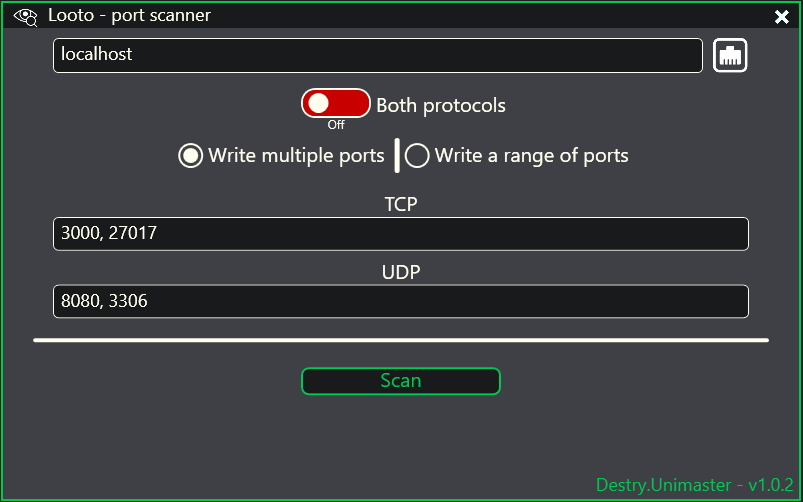
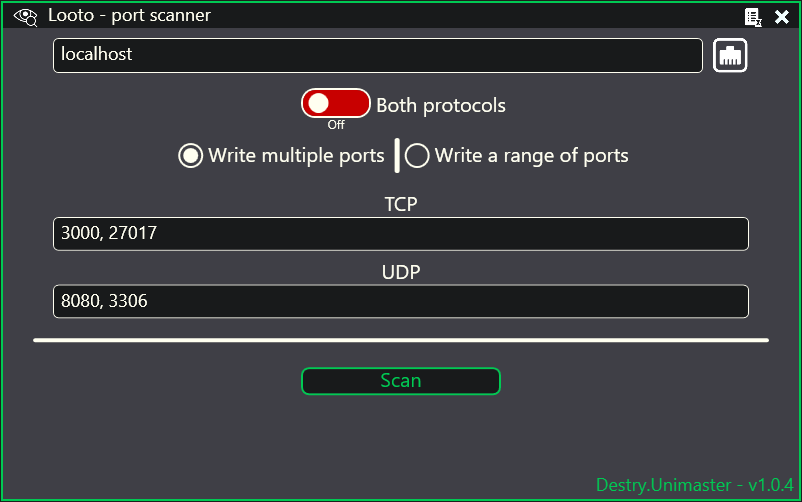
Edit: README and CHANGELOG was edited - app preparing for v1.0.4 release; Fix: scanning history scroll view was fixed;

diff --git a/Looto/Views/ScanHistoryWindow.xaml b/Looto/Views/ScanHistoryWindow.xaml
@@ -7,7 +7,7 @@
         mc:Ignorable="d"
         xmlns:viewmodels="clr-namespace:Looto.ViewModels" 
         d:DataContext="{d:DesignInstance Type=viewmodels:ScanHistoryViewModel}"
-        Title="Scan history" 
+        Title="Scaning history" 
         WindowStartupLocation="CenterScreen"
         WindowStyle="None"
         ResizeMode="NoResize"
@@ -34,7 +34,7 @@
                                FontSize="{StaticResource Small}"
                                Margin="10, 0, 0, 0"
                                VerticalAlignment="Center"
-                               Text="Scan history"/>
+                               Text="Scaning history"/>
                 </Grid>
 
                 <Grid Grid.Column="1">
@@ -91,7 +91,7 @@
                                 <TextBlock FontSize="{StaticResource H2}"
                                            FontFamily="{StaticResource BaseFont}"
                                            Foreground="{StaticResource WhiteBrush}"
-                                           Text="Scan history"
+                                           Text="Scaning history"
                                            Margin="10"/>
                                 <TextBlock FontSize="{StaticResource Small}"
                                            FontFamily="{StaticResource BaseFont}"
@@ -103,7 +103,7 @@
                             </StackPanel>
                         </StackPanel>
                     </Border>
-                    <ScrollViewer>
+                    <ScrollViewer Height="355">
                         <StackPanel>
                             <Grid>
                                 <Grid.ColumnDefinitions>

diff --git a/Looto/Views/MainWindow.xaml b/Looto/Views/MainWindow.xaml
@@ -308,7 +308,7 @@
                            VerticalAlignment="Bottom"
                            TextAlignment="Right"
                            Margin="5"
-                           Text="Destry.Unimaster - v1.0.4 dev"/>
+                           Text="Destry.Unimaster - v1.0.4"/>
             </Grid>
         </StackPanel>
     </Border>

diff --git a/README.md b/README.md
@@ -36,17 +36,25 @@ Scan your local network and get all devices IP in LAN. For convenience you can c
 ---
 <br/>
 
+
+### 📜 Scanning history
+You can see all your results of scanning that makes at last 3 days.
+<img src="./README_RESOURCES/IM_7.png" style="display: block;margin-left: auto;margin-right: auto;">
+
+---
+<br/>
+
 ### ❌ Error handling
 If error was occured in theory app will not crash. It will show window about crash, then will write logs entries with EXCP type with creating bug report. You can write new issue as bug report [here](https://github.com/DES-Destry/Looto/issues/new?assignees=DES-Destry&labels=bug&template=bug_report.md&title=Looto+have+a+bug%21). For more informative of the bug you can send ".data" folder content to agafonovandrej69@gmail.com. I'll not check your ".data" folder without created issue!
-<img src="./README_RESOURCES/IM_7.png" style="display: block;margin-left: auto;margin-right: auto;">
+<img src="./README_RESOURCES/IM_8.png" style="display: block;margin-left: auto;margin-right: auto;">
 
 ---
 <br/>
 <br/>
 
-## 📜Install
-Lastest stable version of application will be available in [Releases](https://github.com/DES-Destry/Looto/releases) of [GitHub repository](https://github.com/DES-Destry/Looto). For stable working of application you need only one executable file (Looto.exe) and ".data" folder. Other files not necessary for application working, but still important.
-<img src="./README_RESOURCES/IM_8.png" style="display: block;margin-left: auto;margin-right: auto;">
+## 📁 Install
+Lastest stable version of application will be available in [Releases](https://github.com/DES-Destry/Looto/releases) of [GitHub repository](https://github.com/DES-Destry/Looto). For stable working of application you need only one executable file "Looto.exe" and ".data" folder. Other files not necessary for application working, but still important.
+<img src="./README_RESOURCES/IM_9.png" style="display: block;margin-left: auto;margin-right: auto;">
 
 <br/>
 <br/>

diff --git a/CHANGELOG.md b/CHANGELOG.md
@@ -1,5 +1,10 @@
 # Versions
 
+## v1.0.4
+- UDP port scanning was fixed.(in the previous version the app shows that all UDP ports have Opened state)
+- Scanning results cache was added. You can see your history in the "Scaning history" and LAN list shows how long you scanned any ports in the LAN. Cache stored in the .data\.cache file.
+- LAN list shows IPs that belong to device, that launched Looto app. It shows (me) status near the host.
+
 ## v1.0.3
 - Some bug fixes.
 - LAN hosts scanner was improved - it scan more hosts based on local IP device.
